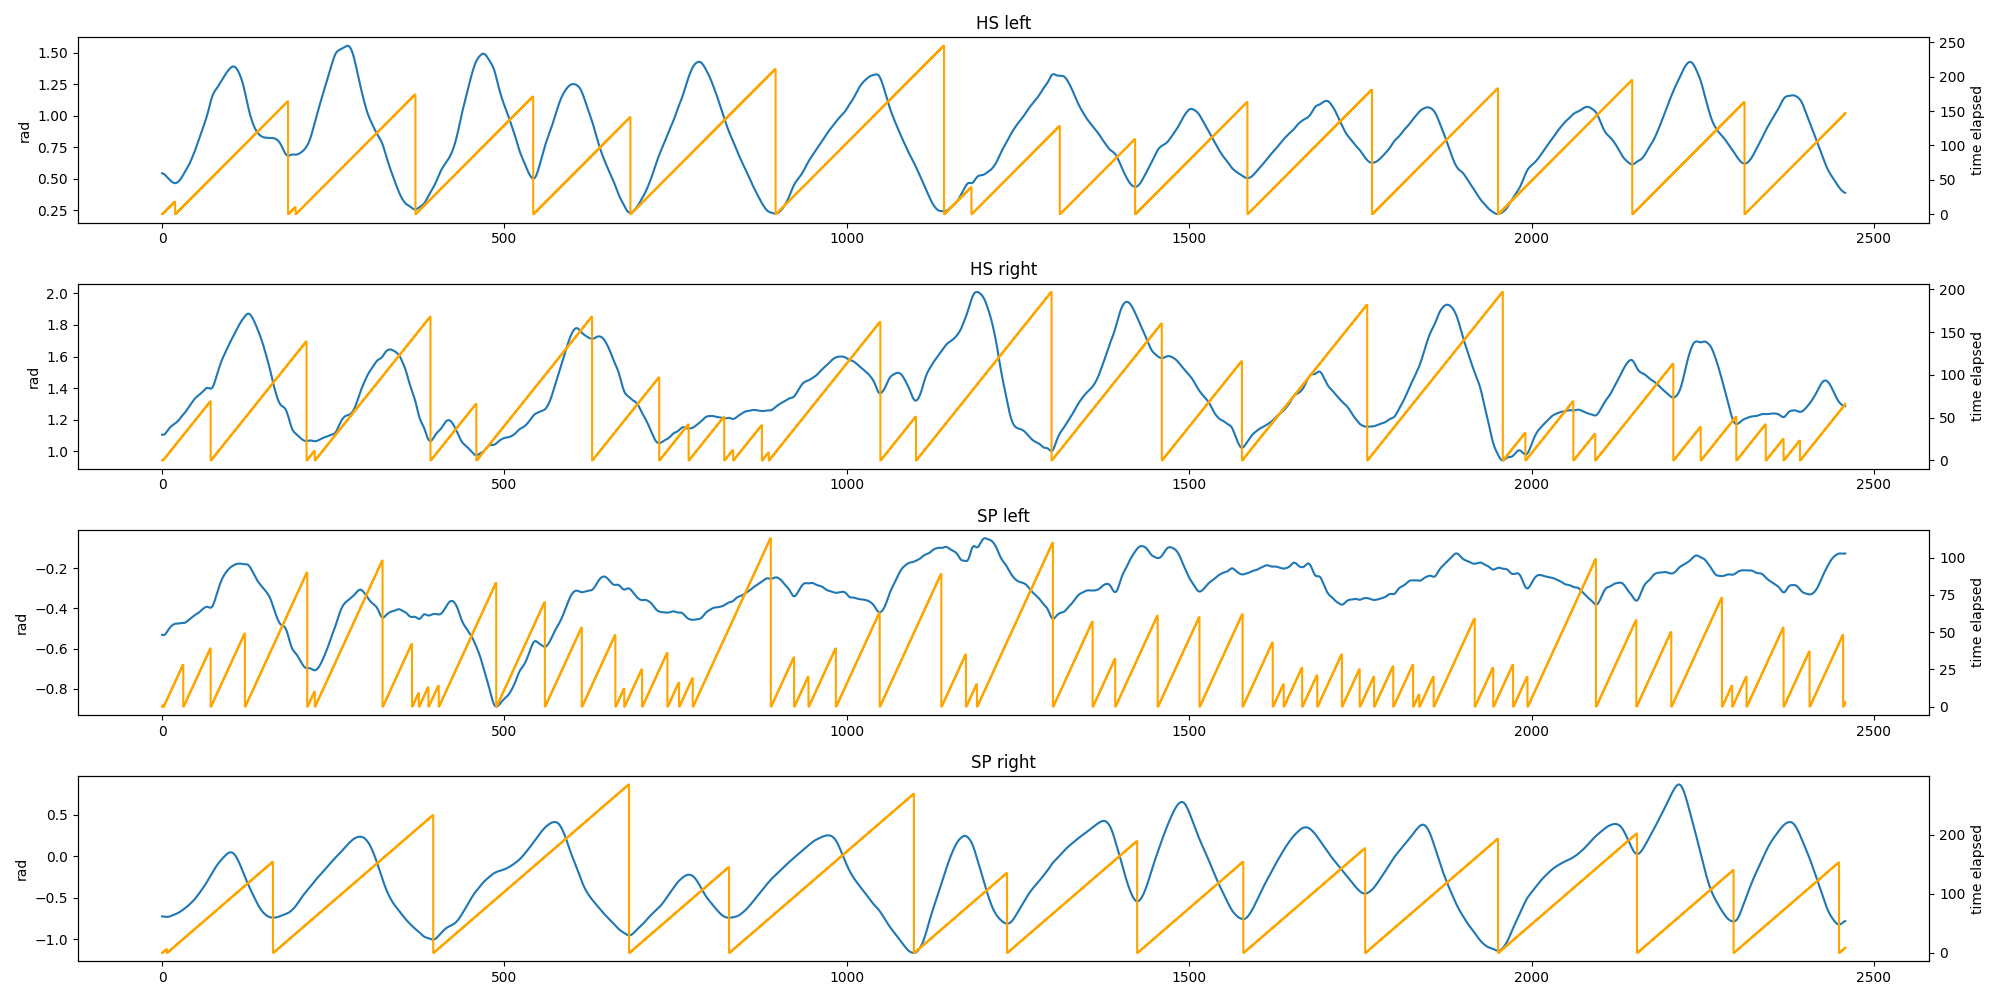
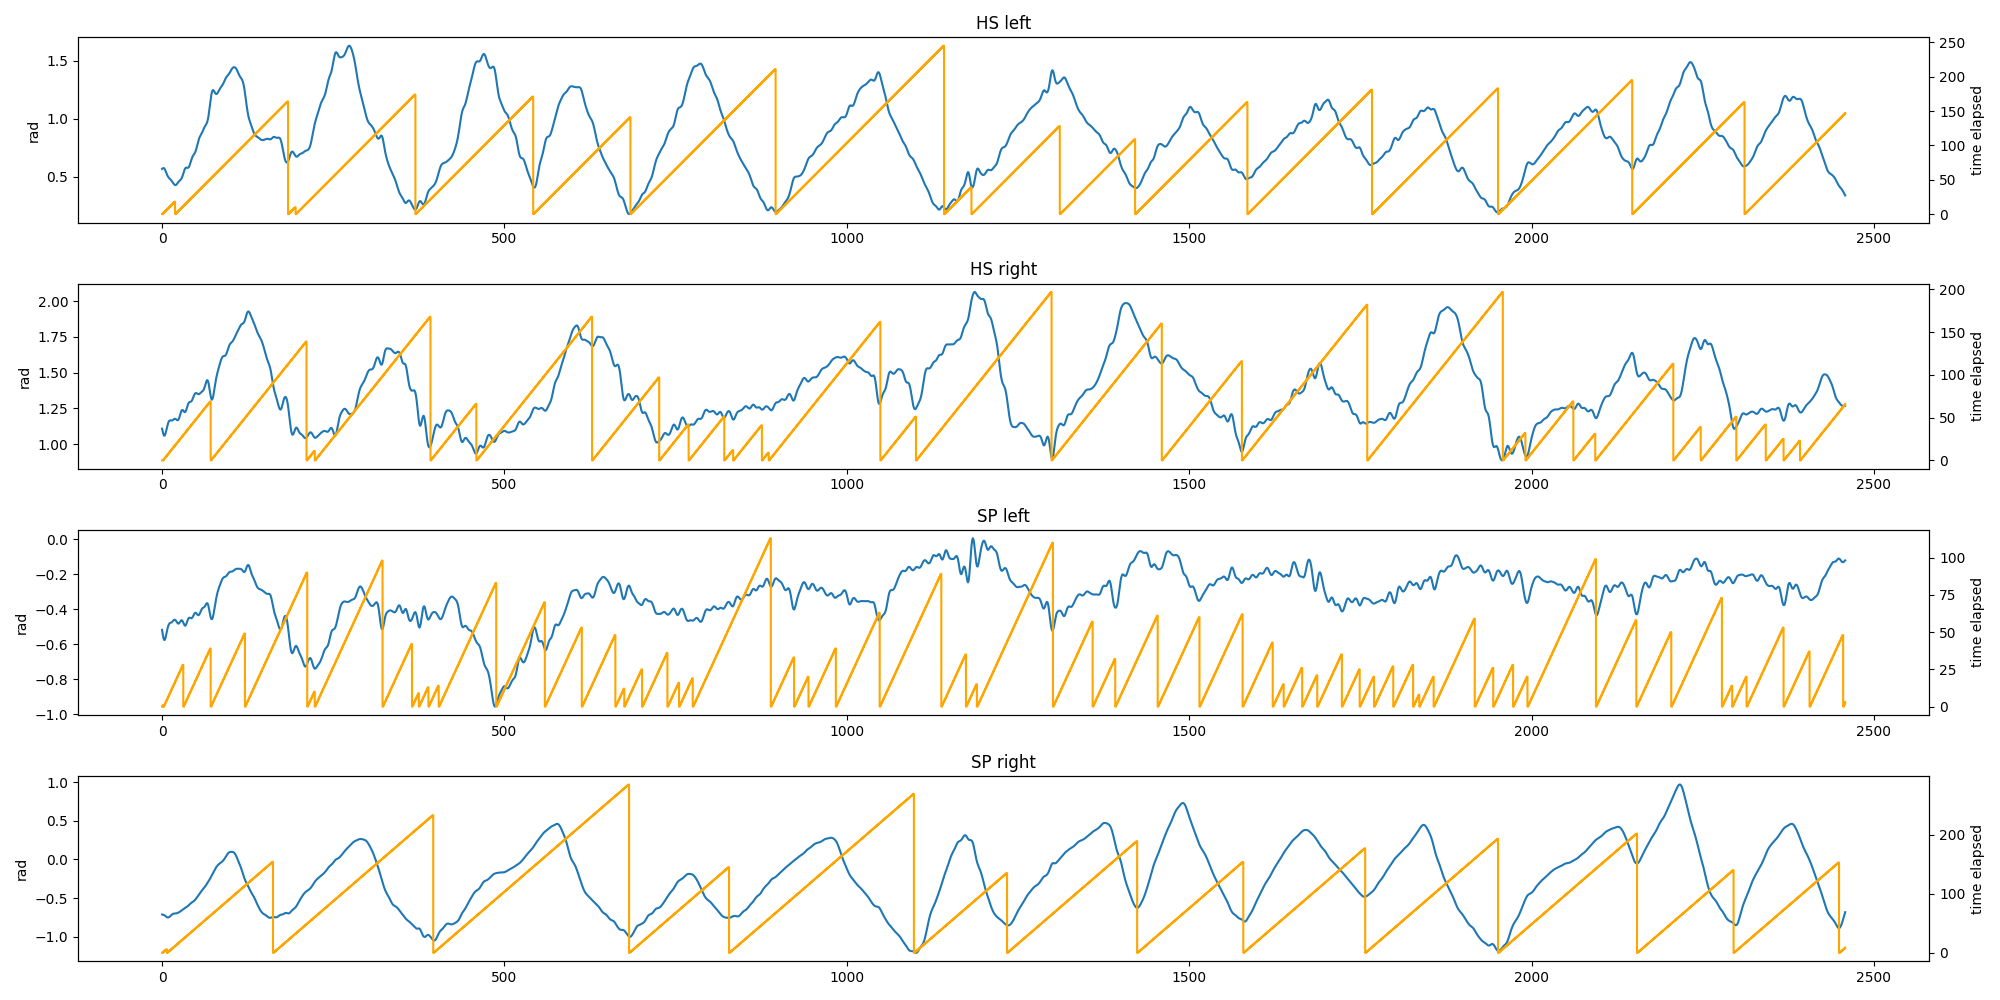
commit

diff --git a/expert_demonstration/phase_encode.py b/expert_demonstration/phase_encode.py
@@ -20,7 +20,7 @@ def get_data(subject:str):
         antenna = pd.read_csv(antenna_path, header=[0], index_col=None).to_numpy()
     return antenna
 
-def Kalman1D(observations,damping=2):
+def Kalman1D(observations,damping=1):
     # to return the smoothed time series data
     observation_covariance = damping
     initial_value_guess = observations[0]
@@ -38,9 +38,10 @@ def Kalman1D(observations,damping=2):
     return pred_state
 
 def smooth(data):
+    smoothed_data = np.zeros_like(data, dtype=float)
     for i in range(data.shape[1]):
-        data[:, i] = Kalman1D(data[:, i], damping=1).reshape(-1)
-    return data
+        smoothed_data[:, i] = Kalman1D(data[:, i], damping=1).reshape(-1)
+    return smoothed_data
 
 def time_eplased_antenna_contact(joint_data):
 # This funtion calculates the time elapsed since the last antenna contact
@@ -121,7 +122,8 @@ discrete_data = discrete_data.reshape(log_transformed_data.shape)
 # Save the discretized data
 
 # visualize the encoded antenna data and the original antenna data
+antenna_visualization(antenna_01, smoothed_antenna_01, 'smoothed', save=True)
 antenna_visualization(antenna_01, encoded_antenna_01, 'time elapsed', save=True)
-antenna_visualization(antenna_01, log_transformed_data, 'log time elapsed', save=True)
-antenna_visualization(antenna_01, discrete_data, 'discrete time elapsed', save=False)
+# antenna_visualization(antenna_01, log_transformed_data, 'log time elapsed', save=True)
+# antenna_visualization(antenna_01, discrete_data, 'discrete time elapsed', save=False)
 
